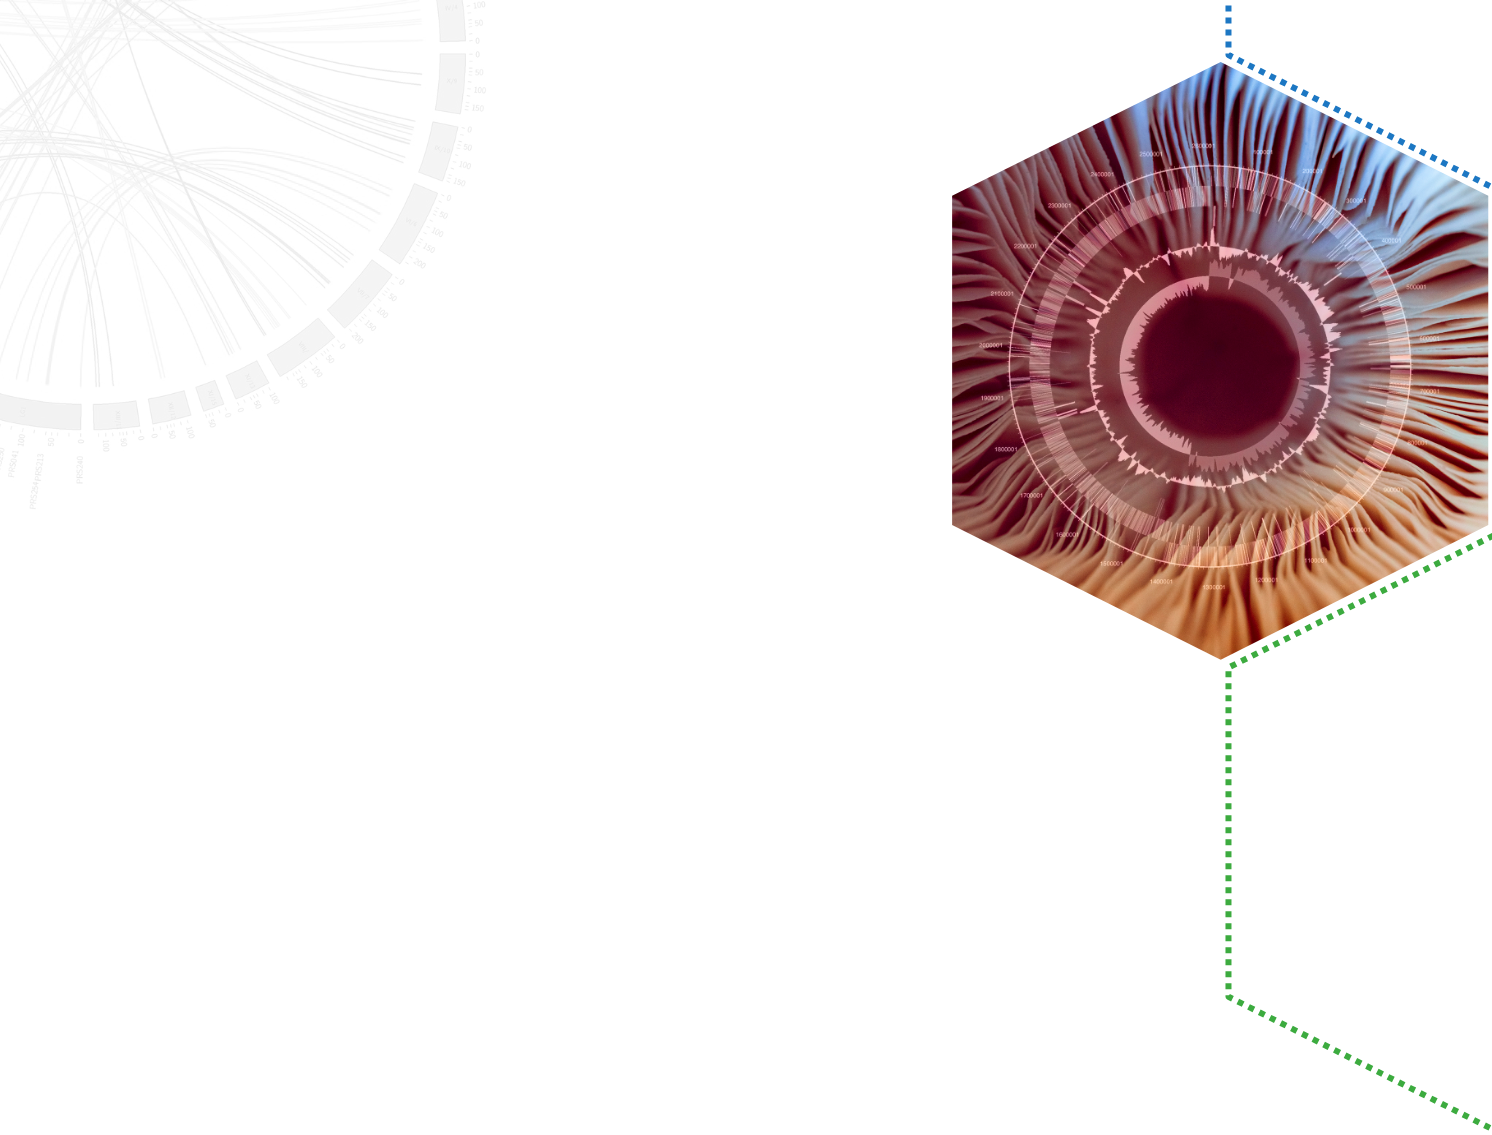
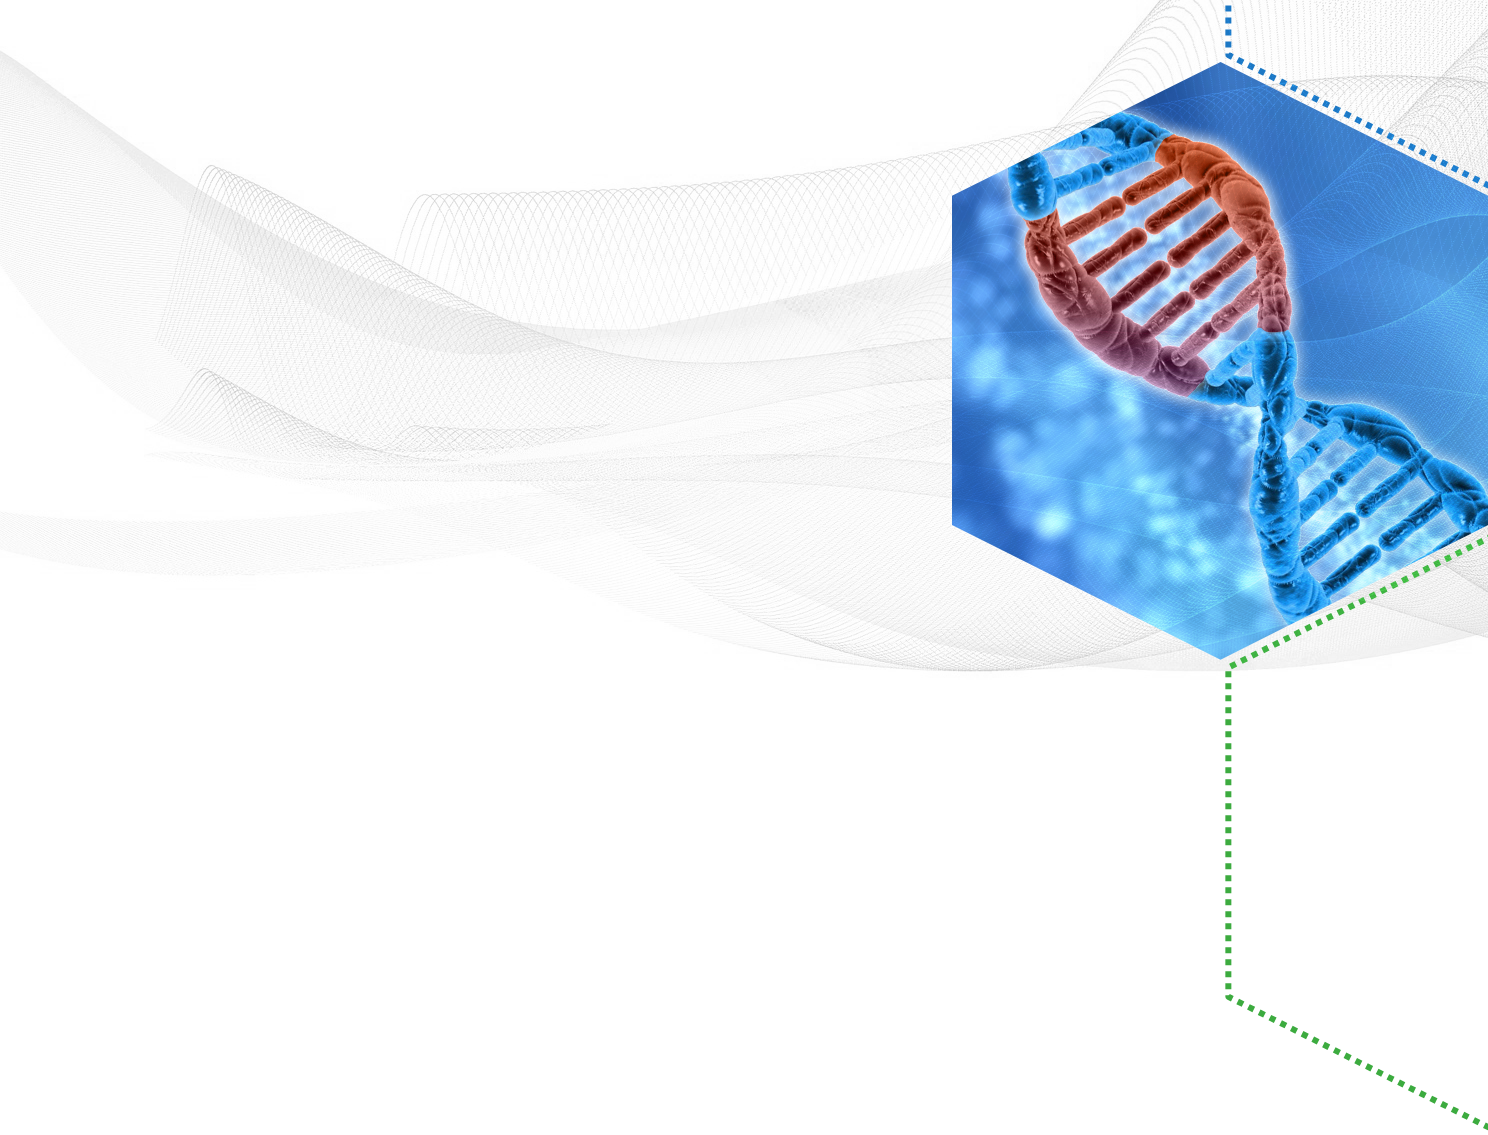
updated homepage hero

diff --git a/site/layouts/_default/single.html b/site/layouts/_default/single.html
@@ -1,6 +1,6 @@
 {{ define "main" }}
 
-{{ partial "hero-sm" (dict "imageUrl" "/img/jobs-right.png" "title" "Careers @ Hexagon Bio" "intro" "Learn more about the position below. To apply, please send your CV and cover letter to careers@hexagonbio.com.") }}
+{{ partial "hero-sm" (dict "imageUrl" "/img/jobs-right.png" "title" "Careers" "subtitle" "Learn more about the position below. To apply, please send your CV and cover letter to careers@hexagonbio.com.") }}
 
   <div class="mw7 ph5" style="margin-top:-10%">
     <h1 class="f2 lh-title b mb3">{{.Title}}</h1>

diff --git a/site/layouts/partials/hero-home.html b/site/layouts/partials/hero-home.html
@@ -1,6 +1,6 @@
-<img src="{{.imageUrl}}" class="header-image">
-<div class="pv5 pv6-l ph3 home-header-text">
-  <div class="mw8 center ph4">
+<img src="{{.imageUrl}}" class="header-image z-0">
+<div class="pv5 pv6-l ph4 home-header-text">
+  <div class="mw8 ph4">
     <div class="db mb3">
       <div class="mw7 relative bg-fix-primary mb3 intro1">
         <h1 class="f3 f1-l f2-m f1-ns di lh-title mb3">

diff --git a/site/layouts/partials/3-up.html b/site/layouts/partials/3-up.html
@@ -6,7 +6,7 @@
     <div class="flex-ns mhn2-ns mb3">
       {{ range .icons }}
       <div class="ph3-ns w-33-ns hideme">
-        <img src="{{.image}}" alt="" class="center db mb3" style="max-width:30%">
+        <img src="{{.image}}" alt="" class="center db mb3" style="width:25%">
         <p class="b tc mb1">{{.heading}}</p>
         <p class="tc f6">{{.text}}</p>
       </div>

diff --git a/site/layouts/partials/leadership.html b/site/layouts/partials/leadership.html
@@ -24,5 +24,6 @@
 				</div>
 			{{ end }}
 		</div>
+		<p class="f5">→ Meet our complete team on <a href="https://www.linkedin.com/company/hexagon-bio/people/" target="_blank">LinkedIn</a>.</p>
 	</div>
 </div>
